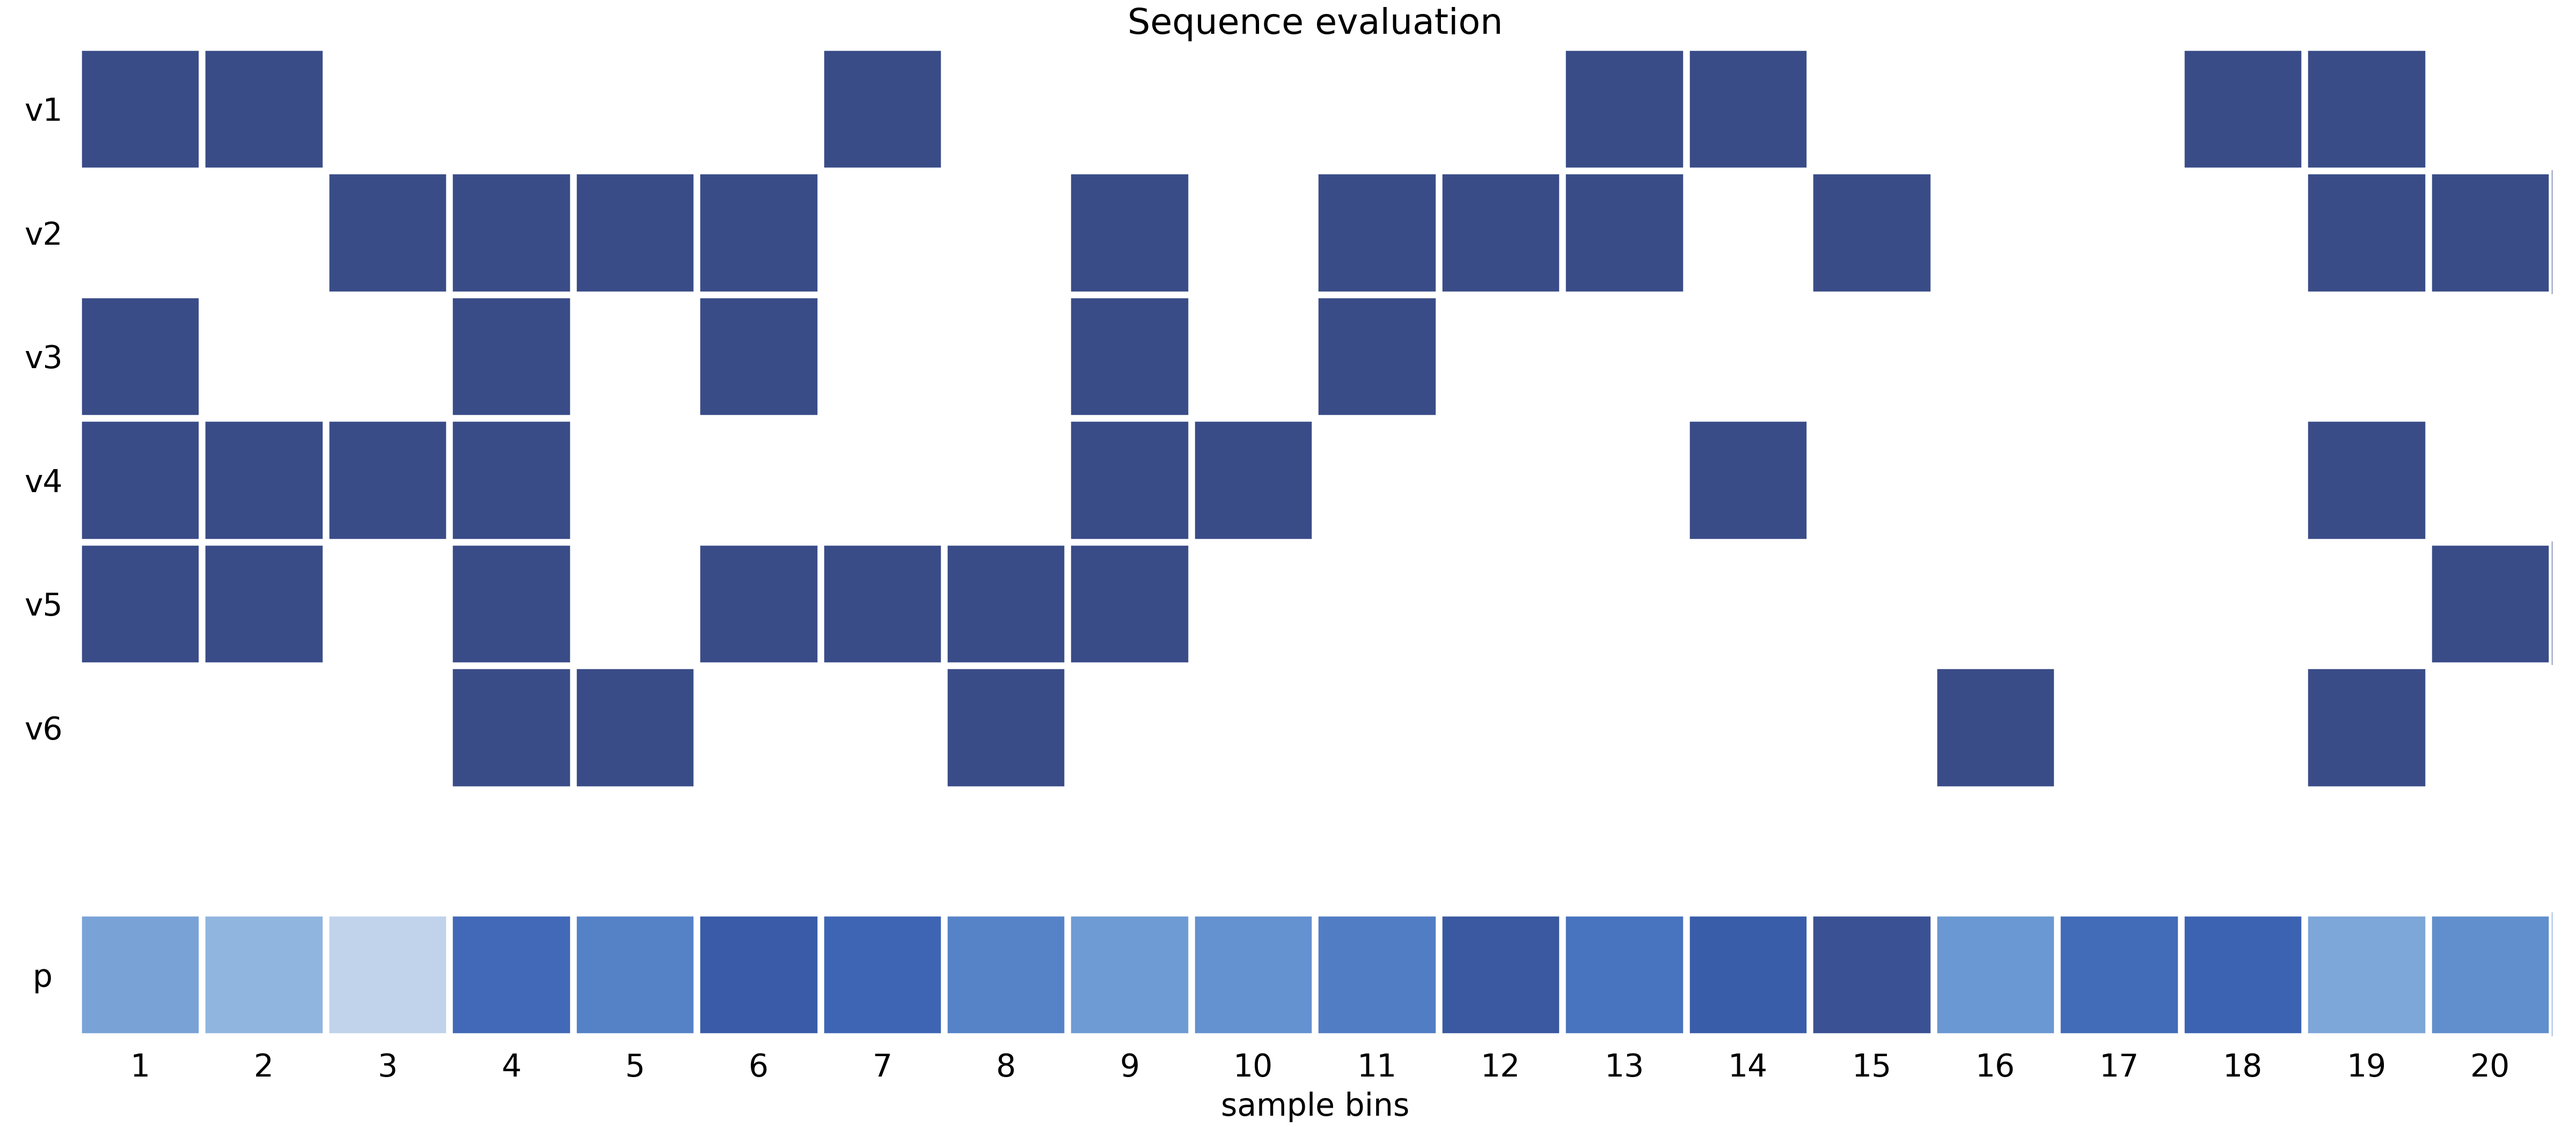
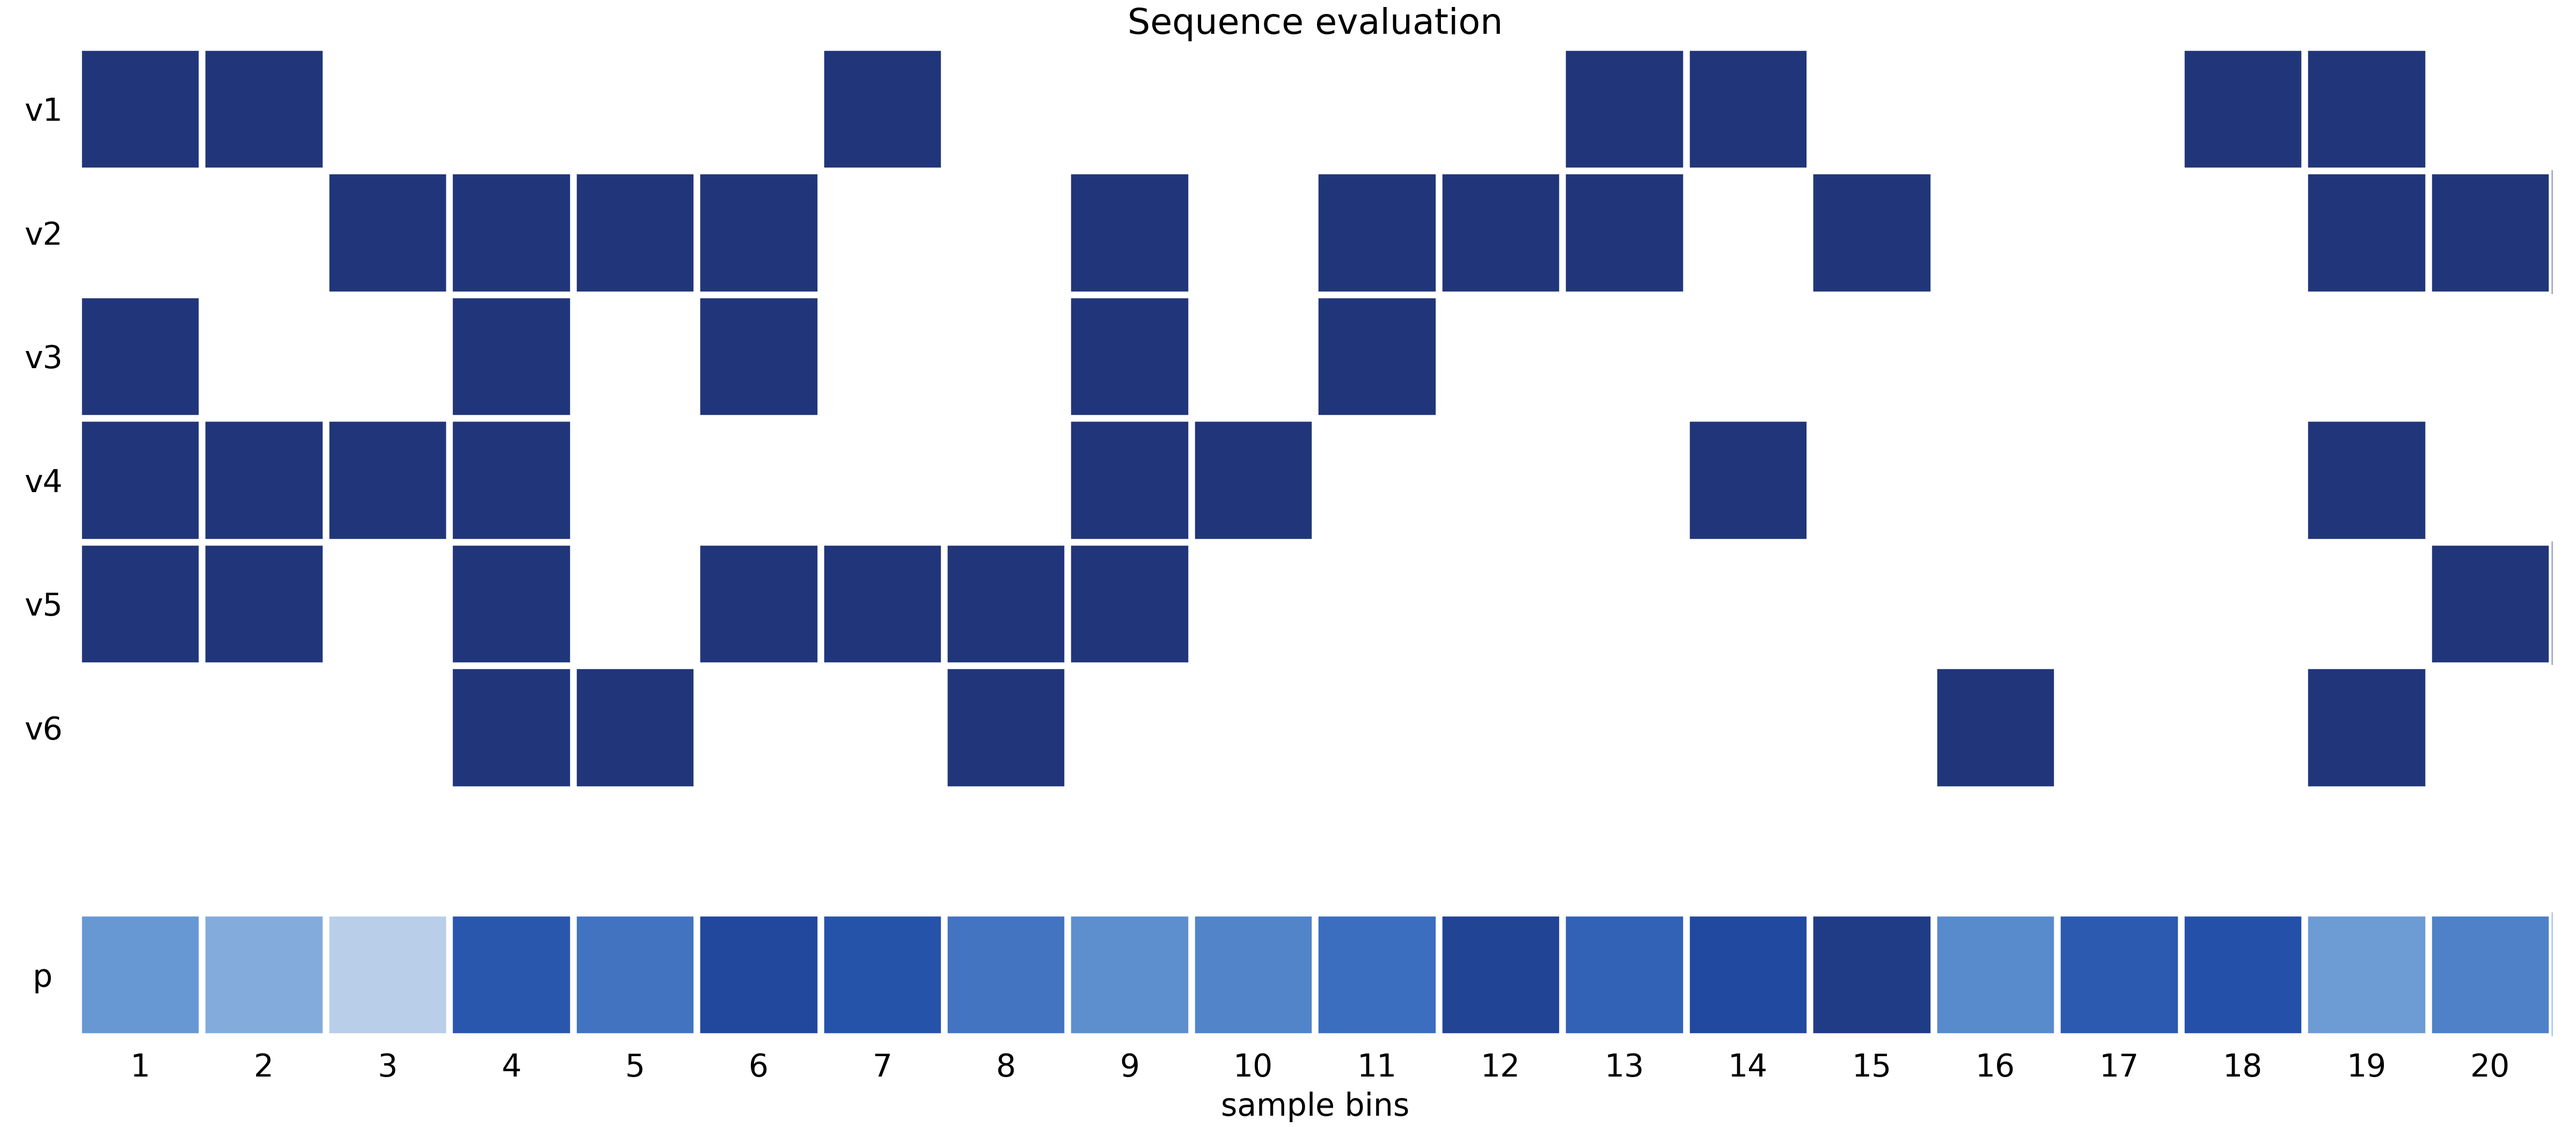
updated charts

diff --git a/modules/graph.py b/modules/graph.py
@@ -10,6 +10,7 @@ from typing import List
 import numpy as np
 import math
 import copy
+from colour import Color
 
 
 # FSIZE_TITLE = 16
@@ -22,6 +23,7 @@ FSIZE_TITLE = 16
 FSIZE_LABEL = 14
 FSIZE_LABEL_S = 14
 FSIZE_LABEL_XS = 12
+OPACITY = 0.9
 
 
 class Timeseries:
@@ -70,14 +72,21 @@ def plot_xy(x, y, rads, labels, colors, title, xlabel, ylabel, scale, show_legen
         ax.set_xlim(scale[0])
         ax.set_ylim(scale[1])
 
+    ax.grid(zorder=0)
+
     scatter_vect = []
 
     for i in range(len(x)):
         scatter_vect.append(ax.scatter(
-            y[i], x[i], s=rads[i], c=colors[i], alpha=0.7))
+            y[i], x[i], s=rads[i], c=colors[i], alpha=OPACITY, zorder=3))
 
     for i, txt in enumerate(labels_points):
-        ax.annotate(txt, (y[i], x[i]), size=14, ha='center', va='center')
+        col = Color(colors[i][:-2])
+        if col.luminance < 0.5:
+            color = "white"
+        else:
+            color = "black"
+        ax.annotate(txt, (y[i], x[i]), size=14, ha='center', va='center', color=color)
 
     ax.tick_params(axis='both', which='major', labelsize=FSIZE_LABEL_XS)
     ax.tick_params(axis='both', which='minor', labelsize=FSIZE_LABEL_XS)
@@ -98,7 +107,7 @@ def plot_xy(x, y, rads, labels, colors, title, xlabel, ylabel, scale, show_legen
         yticks[0].label1.set_visible(False)
         yticks[1].label1.set_visible(False)
 
-    ax.grid(zorder=0)
+    
     set_disp(title, xlabel, ylabel)
 
     plt.show()
@@ -332,7 +341,7 @@ def plot_barchart_multi_core(bss: List[Barseries], xlabel, ylabel, title, xlabel
     # if n_groups == 1:
     #     bar_width = 1
 
-    opacity = 0.7
+    opacity = OPACITY
 
     low = None
     high = None
@@ -434,7 +443,7 @@ def plot_barchart(labels, values, xlabel, ylabel, title, color):
 
     y_pos = np.arange(len(labels))
 
-    plt.bar(y_pos, values, align='center', alpha=0.7, color=color)
+    plt.bar(y_pos, values, align='center', alpha=OPACITY, color=color)
     plt.xticks(y_pos, labels)
 
     plt.xlabel(xlabel)
@@ -686,7 +695,7 @@ def plot_matrix_cmap_plain(elements: List[CMapMatrixElement], xsize, ysize, titl
     cmap = copy.copy(plt.get_cmap(cmap))
 
     # modify colormap
-    alpha = 0.8
+    alpha = OPACITY
     colors = []
     for ind in range(cmap.N):
         c = []

diff --git a/eval_results_overview.py b/eval_results_overview.py
@@ -34,7 +34,7 @@ labels = ["Dense", "RNN", "DT", "RF"]
 # show model computation (only)
 
 show_model_computation = False
-show_model_computation = True
+# show_model_computation = True
 
 def list_files(mode):
     onlyfiles = [f for f in listdir(mypath) if isfile(
